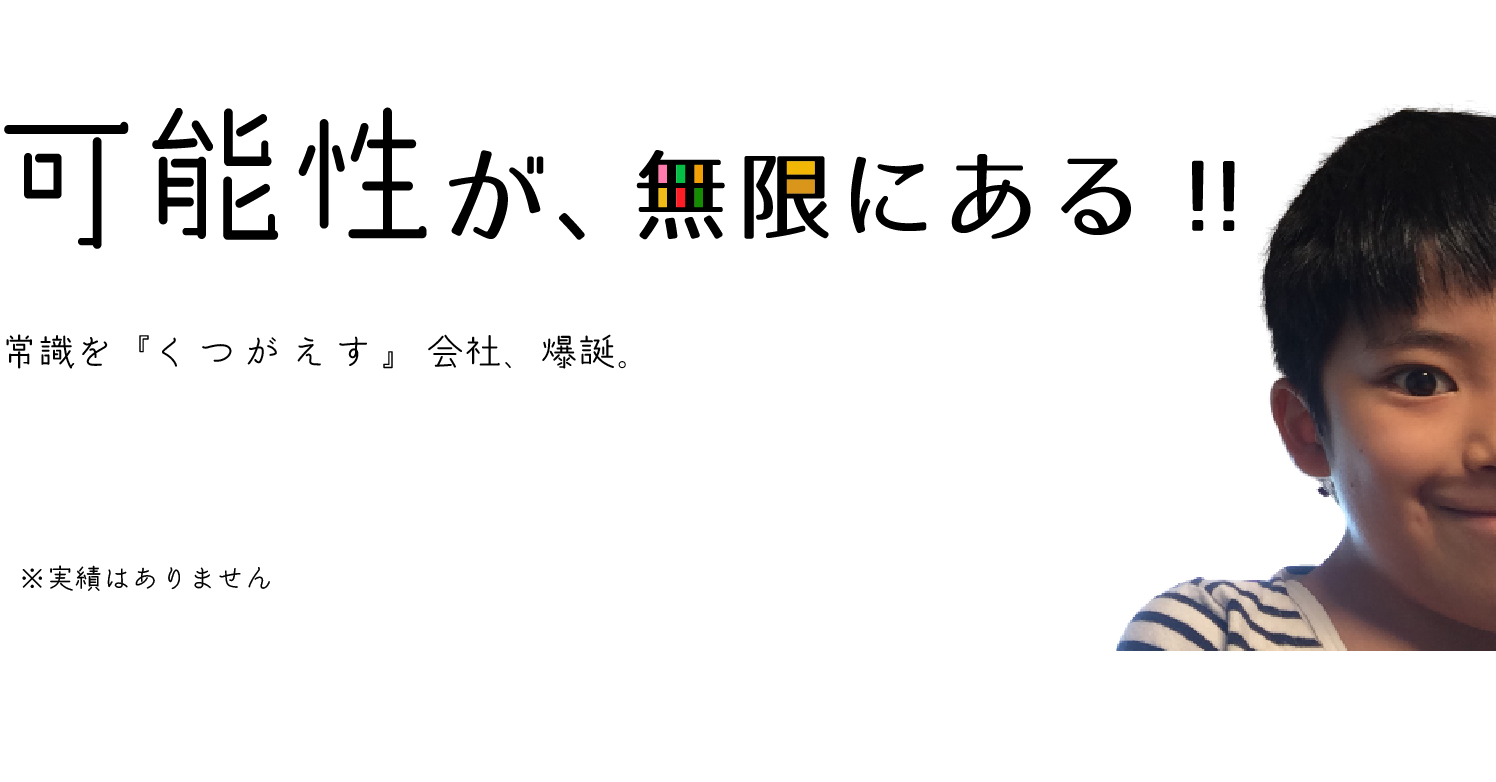
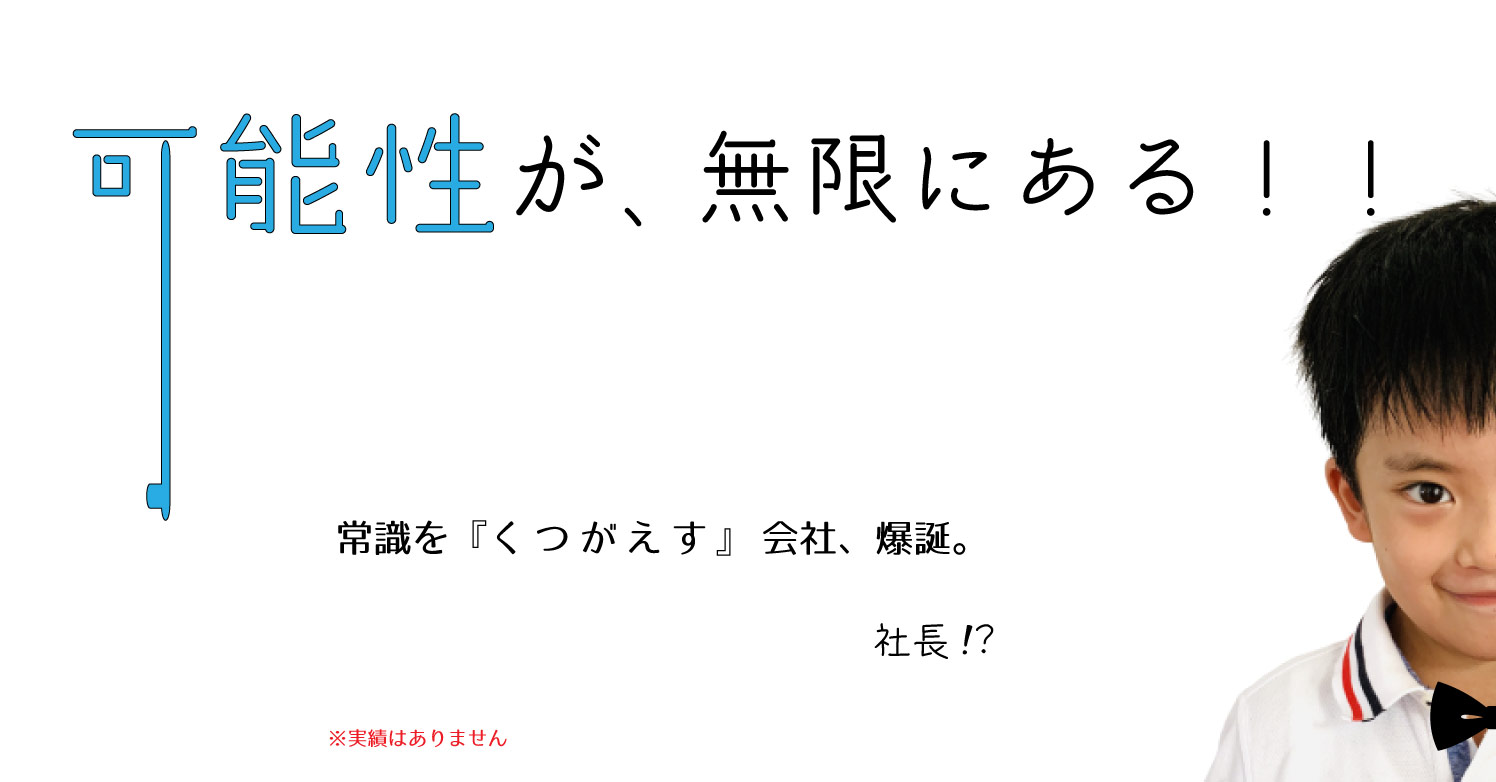
画像変更完了

diff --git a/product/light.html b/product/light.html
@@ -1,0 +1,101 @@
+<!doctype html>
+<html>
+
+<head>
+  <meta charset="UTF-8">
+  <meta name="viewport" content="width=device-width, initial-scale=1">
+  <title>けんごウェブテクノロジー</title>
+  <meta name="keywords" content="">
+  <meta name="description" content="">
+  <link rel="icon" type="image/png" href="../img/favicon.png">
+  <link rel="stylesheet" media="all" href="../css/ress.min.css" />
+  <link rel="stylesheet" media="all" href="../css/style.css" />
+  <script src="../js/jquery-2.1.4.min.js"></script>
+  <script src="../js/style.js"></script>
+  <script src="https://sdk.form.run/js/v2/formrun.js"></script>
+  <!-- Favicon -->
+  <link rel="icon" type="image/png" href="../img/favicon.png">
+
+</head>
+
+<body>
+  <header>
+    <div class="container">
+      <div class="row" id="page-top">
+        <div class="col span-12 header">
+          <h1><a href="">けんごウェブテクノロジー</a></h1>
+          <div class="header-box"><a href="#4"><span class="contact-button">お問い合わせ</span></a></div>
+        </div>
+      </div>
+      <div class="row">
+        <div class="col span-12">
+          <nav>
+            <div id="open"><img src="./img/button.png"></div>
+            <div id="close"><img src="./img/button2.png"></div>
+            <div id="navi">
+              <ul>
+                <li><a href="index.html">ホーム</a></li>
+                <li><a href="#1">商品一覧</a></li>
+                <li><a href="#2">社長紹介</a></li>
+                <li><a href="#3">納品までの流れ</a></li>
+                <li><a href="#4">お問い合わせ</a></li>
+              </ul>
+            </div>
+          </nav>
+        </div>
+      </div>
+    </div>
+  </header>
+  <div class="topimg">
+    <img src="../img/light.png" alt="お手軽、お得。"　class="center h80">
+  </div>
+  <!--<footer>
+    <div class="container">
+      <div class="row">
+        <div class="col span-4">
+          <h4>フッター1</h4>
+          <p>ここにSNSやテキストなどが入ります。SNSやテキストなどが入ります。</p>
+        </div>
+        <div class="col span-4">
+          <h4>フッター2</h4>
+          <p>ここにSNSやテキストなどが入ります。SNSやテキストなどが入ります。</p>
+        </div>
+        <div class="col span-4">
+          <h4>フッター3</h4>
+          <p>ここにSNSやテキストなどが入ります。SNSやテキストなどが入ります。</p>
+        </div>
+      </div>
+    </div>
+  </footer>-->
+  <div class="copyright">
+    Copyright (C) 2021 Kengo Web Technology.
+  </div>
+  <p id="pagetop"><a href="#page-top">TOP</a></p>
+  <div id="stalker"></div>
+  <div id="cursor"></div>
+  <script>
+    //準備
+    let cursorR = 5;
+    const cursor = document.getElementById('cursor');
+    document.addEventListener('mousemove', function(e) {
+      cursor.style.transform = 'translate(' + e.clientX + 'px, ' + e.clientY + 'px)';
+    });
+    const stalker = document.getElementById('stalker');
+    let hovFlag = false;
+    document.addEventListener('mousemove', function(e) {
+      if (!hovFlag) {
+        stalker.style.transform = 'translate(' + e.clientX + 'px, ' + e.clientY + 'px)';
+      }
+    })
+    const hover = document.getElementById('hover');
+    hover.addEventListener('mouseover', () => {
+      stalker.style.background = 'rgba(255,204,0,0.5)';
+      stalker.style.borderRadius = 'none';
+    }, false);
+    hover.addEventListener('mouseleave', () => {
+      stalker.style.background = 'rgba(0,0,0,0.5)';
+    }, false);
+  </script>
+</body>
+
+</html>

diff --git a/css/style.css b/css/style.css
@@ -58,6 +58,8 @@ a:hover {
   cursor: none;
 }
 
+
+
 /*ヘッダー
 -------------------------------------*/
 .header {
